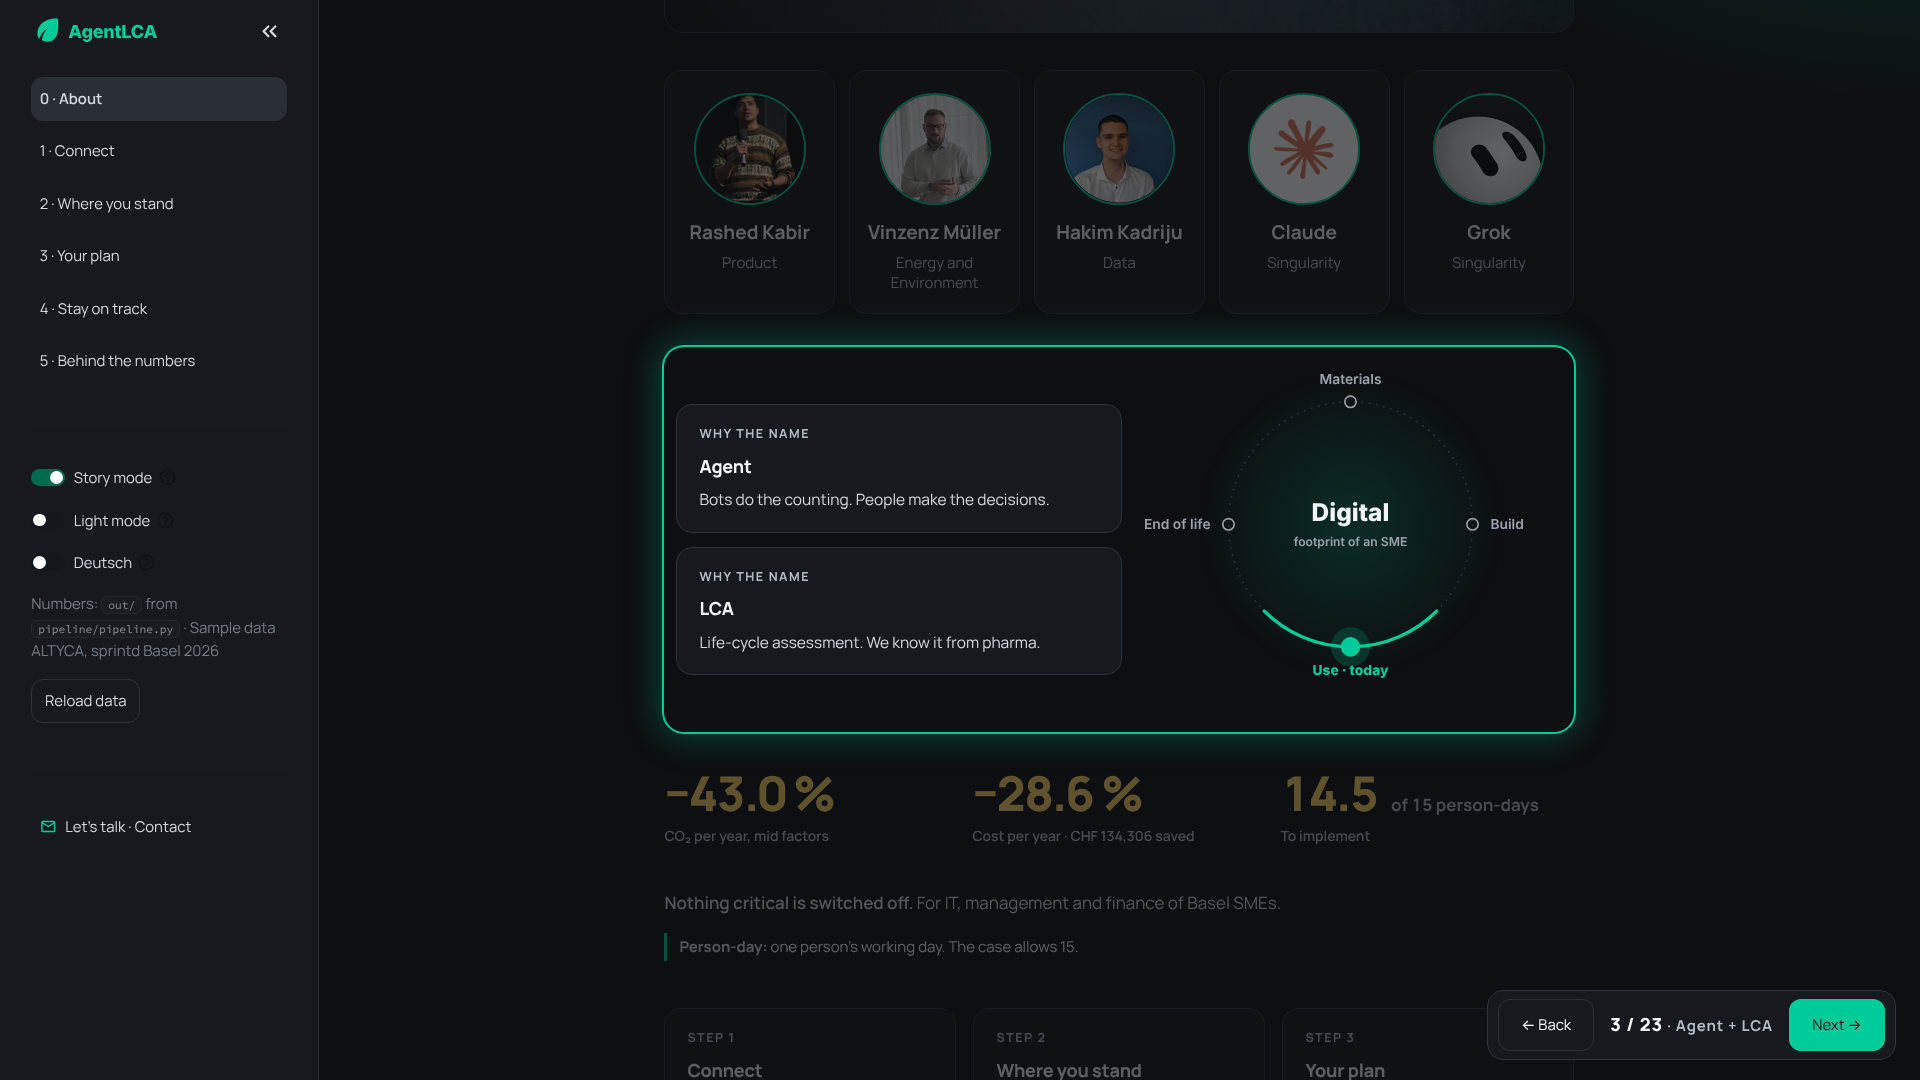
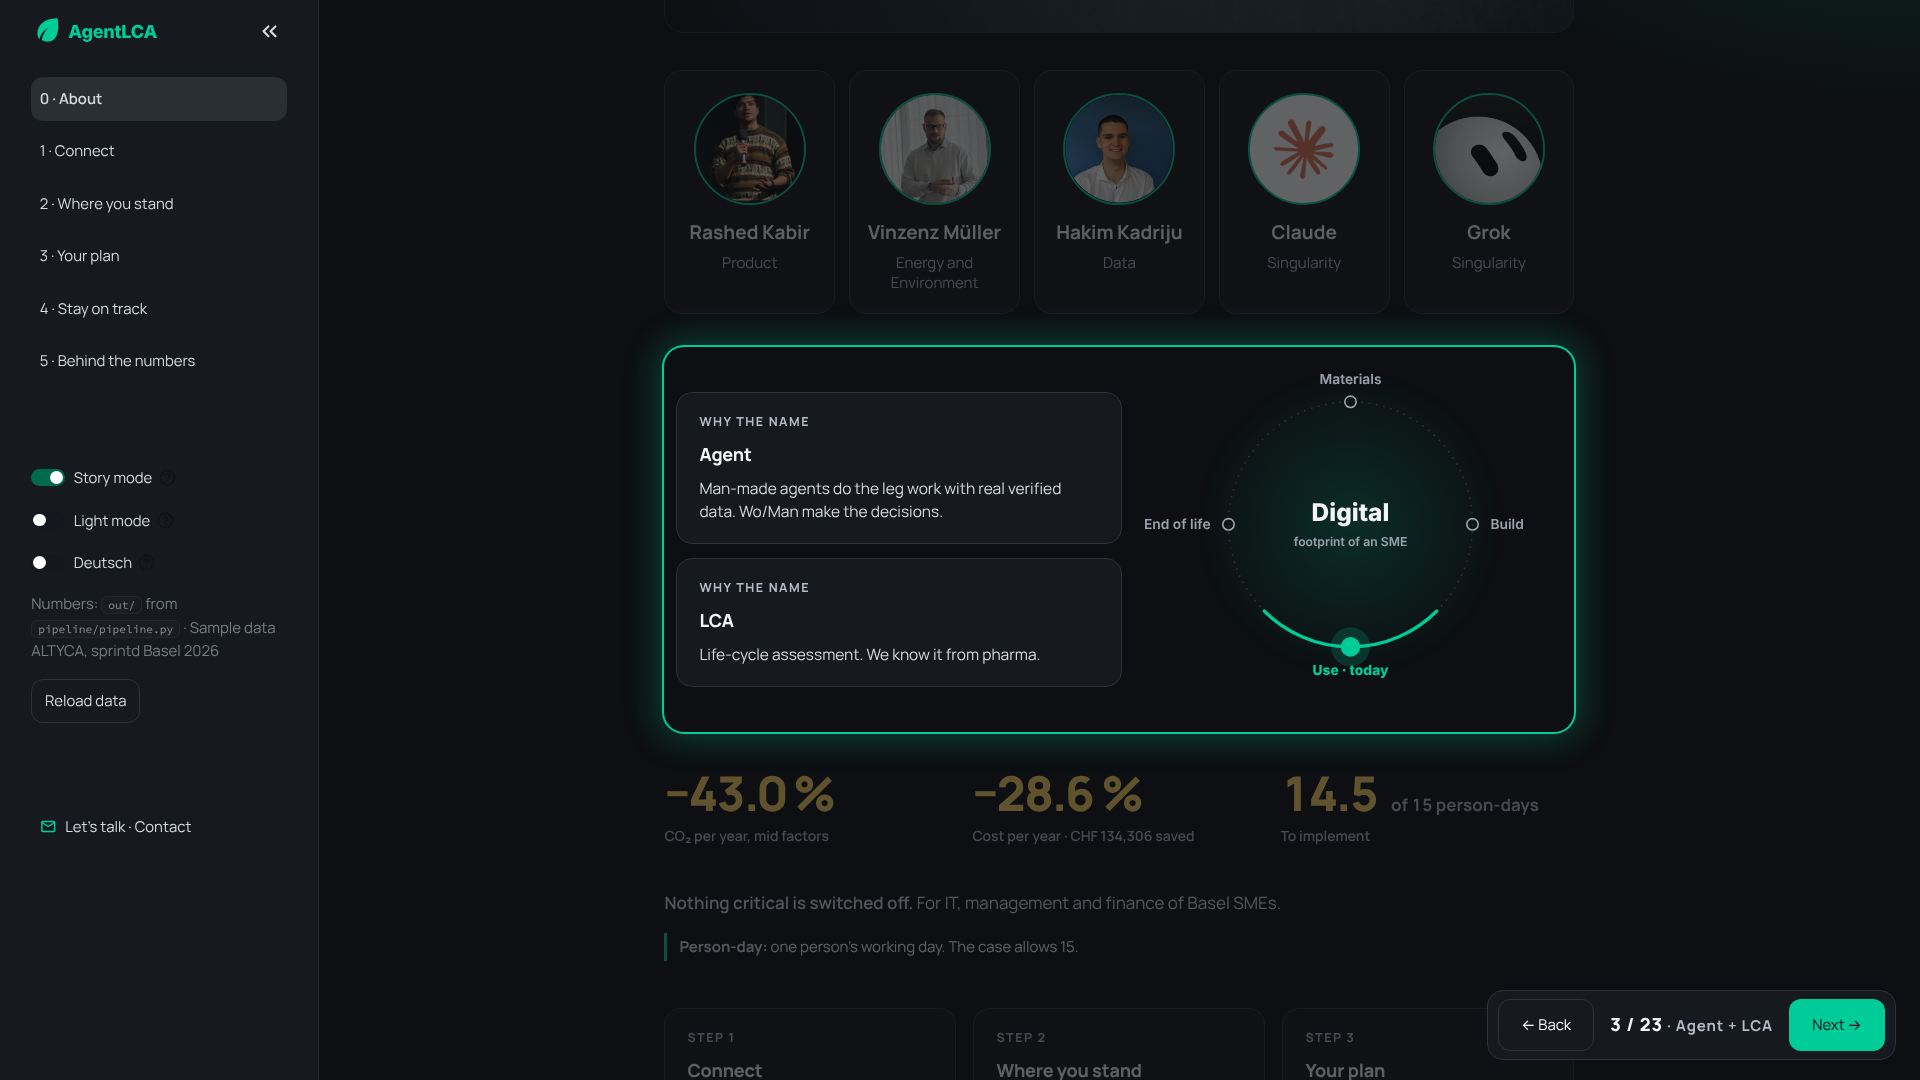
About: Agent line «Man-made agents do the leg work with real verified data. Wo/Man make the decisions.»
Claude-Session: https://claude.ai/code/session_01X3xYSMquWVTkknJRvK9B19

Changed region(s): [[0.3438, 0.3667, 0.5625, 0.6111]]

diff --git a/app/app.py b/app/app.py
@@ -1025,7 +1025,7 @@ def page_about() -> None:
         left, right = st.columns([1.05, 1], vertical_alignment="center")
         with left:
             ui.grid([
-                ui.card("Agent", "Bots do the counting. People make the decisions.", kicker="Why the name"),
+                ui.card("Agent", "Man-made agents do the leg work with real verified data. Wo/Man make the decisions.", kicker="Why the name"),
                 ui.card("LCA", "Life-cycle assessment. We know it from pharma.", kicker="Why the name"),
             ])
         with right:
